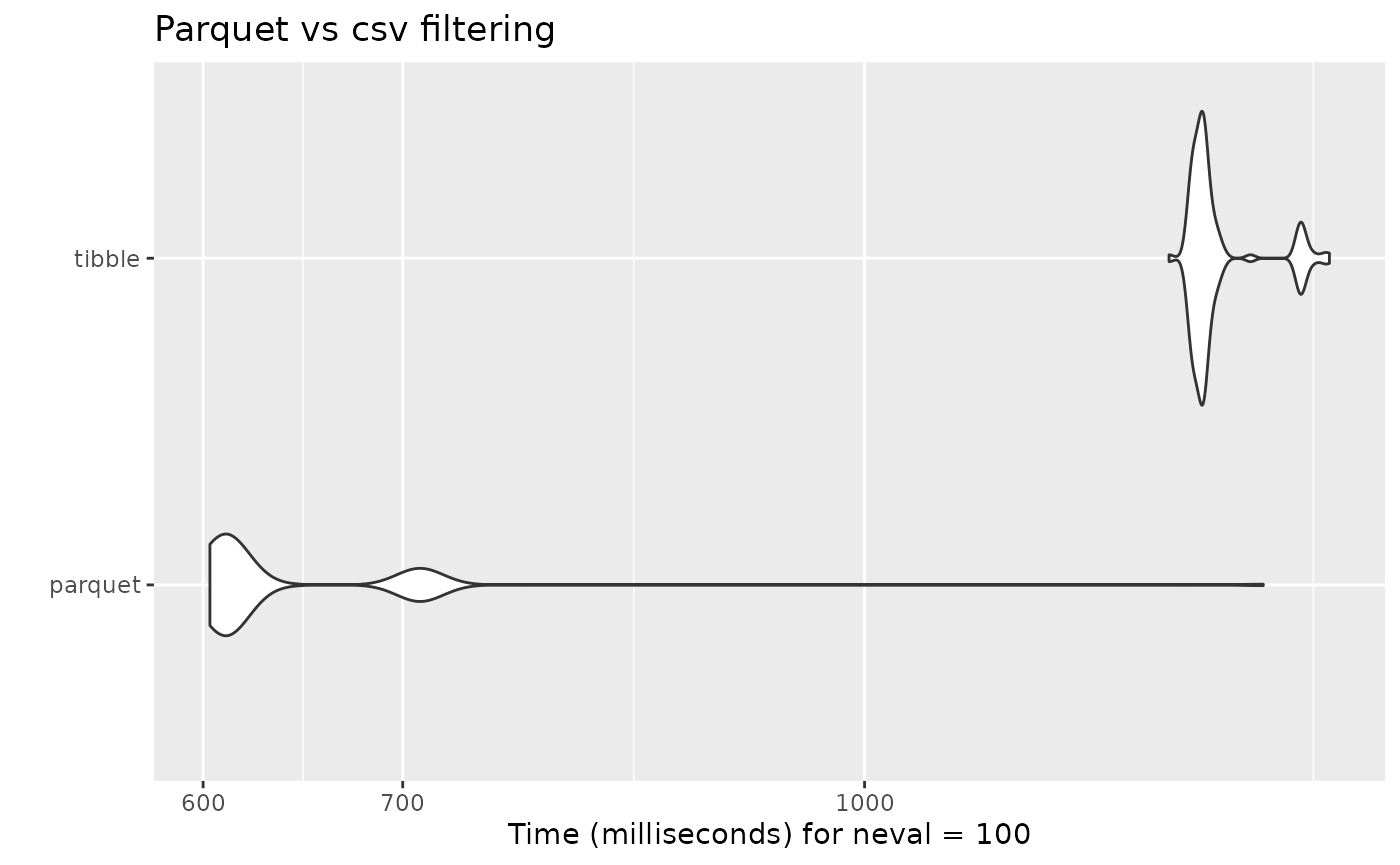
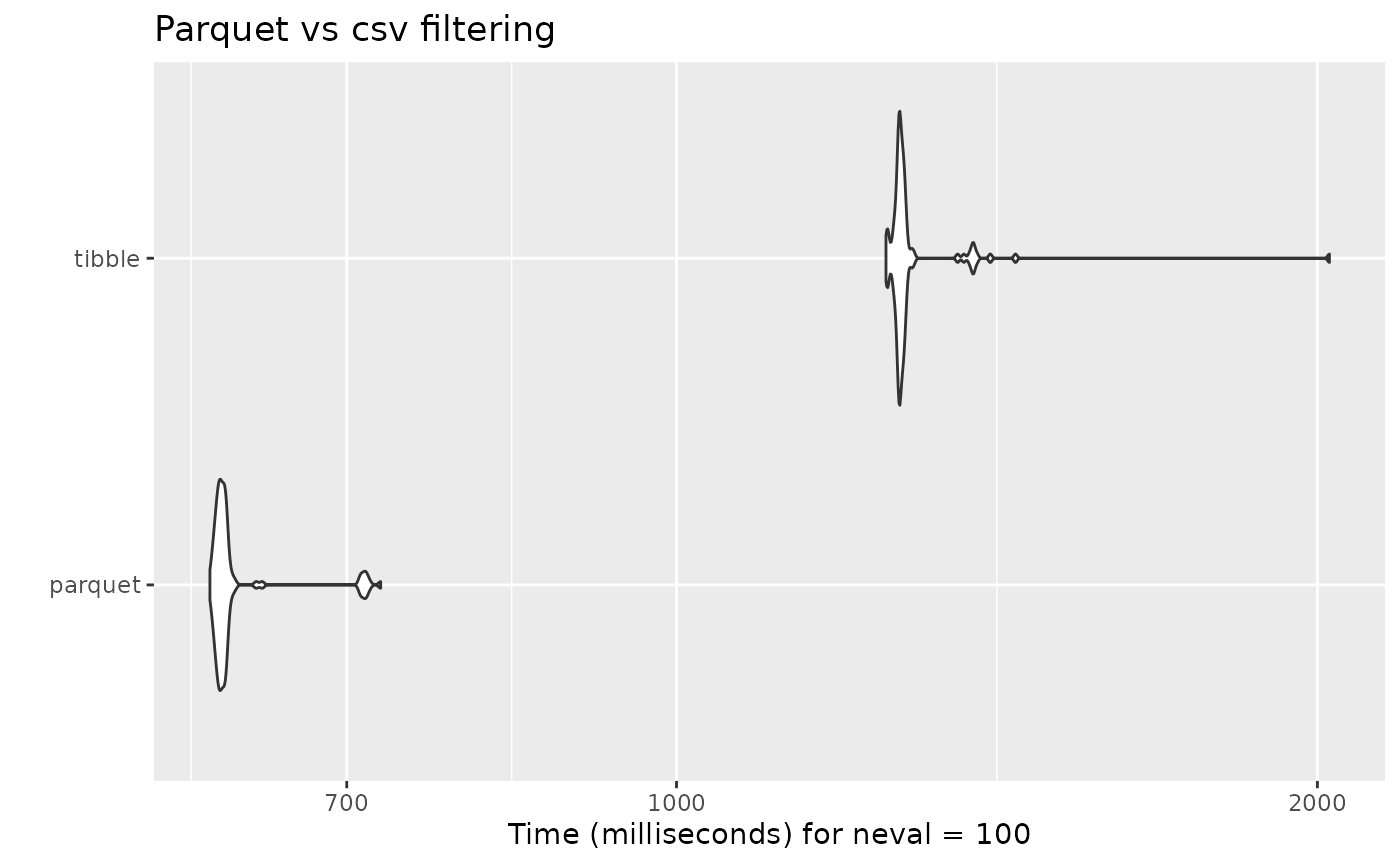
Deploying to gh-pages from @ amslala/regtools@ba6e38a22cb62392f877c759d69cd11c72b7db6a 🚀

diff --git a/articles/parquet-files.html b/articles/parquet-files.html
@@ -185,8 +185,8 @@ files:</p>
 <span>  code_col <span class="op">=</span> <span class="st">"code"</span>,</span>
 <span>  log_path <span class="op">=</span> <span class="va">l_path</span><span class="op">)</span></span>
 <span><span class="co">#&gt; <span style="color: #00BBBB;">ℹ</span> You have provided a parquet file or database. Due to the characteristics of these data objects, the console output and logging will provide minimal information.</span></span>
-<span><span class="co">#&gt; Reading /tmp/RtmpCDUrz2/file7021f4d709f/new_df.parquet file...</span></span>
-<span><span class="co">#&gt; <span style="color: #00BB00;">✔</span> Succesfully read file: /tmp/RtmpCDUrz2/file7021f4d709f/new_df.parquet</span></span>
+<span><span class="co">#&gt; Reading /tmp/Rtmp6iiV4j/file704a521f4616/new_df.parquet file...</span></span>
+<span><span class="co">#&gt; <span style="color: #00BB00;">✔</span> Succesfully read file: /tmp/Rtmp6iiV4j/file704a521f4616/new_df.parquet</span></span>
 <span><span class="co">#&gt; Checking column requirements:</span></span>
 <span><span class="co">#&gt; <span style="color: #00BB00;">✔</span> ID column</span></span>
 <span><span class="co">#&gt; <span style="color: #00BB00;">✔</span> Code column</span></span>
@@ -202,9 +202,9 @@ files:</p>
 <span><span class="co">#&gt; </span></span>
 <span><span class="co">#&gt; FileSystemDataset with 1 Parquet file</span></span>
 <span><span class="co">#&gt; 8,391,947 rows x 3 columns</span></span>
-<span><span class="co">#&gt; $ id       <span style="color: #949494; font-style: italic;">&lt;string&gt;</span> "P036000398", "P036000405", "P036000405", "P036000405", "P03…</span></span>
-<span><span class="co">#&gt; $ code     <span style="color: #949494; font-style: italic;">&lt;string&gt;</span> "F104", "F663", "F746", "F127", "F331", "F751", "F565", "F94…</span></span>
-<span><span class="co">#&gt; $ diag_year <span style="color: #949494; font-style: italic;">&lt;int32&gt;</span> 2012, 2015, 2015, 2015, 2014, 2012, 2013, 2014, 2012, 2014, …</span></span></code></pre></div>
+<span><span class="co">#&gt; $ id       <span style="color: #949494; font-style: italic;">&lt;string&gt;</span> "P023213966", "P023214004", "P023214004", "P023214004", "P02…</span></span>
+<span><span class="co">#&gt; $ code     <span style="color: #949494; font-style: italic;">&lt;string&gt;</span> "F515", "F807", "F1119", "F1290", "F039", "F212", "F303", "F…</span></span>
+<span><span class="co">#&gt; $ diag_year <span style="color: #949494; font-style: italic;">&lt;int32&gt;</span> 2013, 2014, 2012, 2015, 2012, 2014, 2015, 2012, 2013, 2014, …</span></span></code></pre></div>
 </div>
 <div class="section level3">
 <h3 id="filtering">Filtering<a class="anchor" aria-label="anchor" href="#filtering"></a>
@@ -248,8 +248,8 @@ observations:</p>
 <span><span class="co">#&gt; </span></span>
 <span><span class="co">#&gt; Rows: 37,658</span></span>
 <span><span class="co">#&gt; Columns: 3</span></span>
-<span><span class="co">#&gt; $ id        <span style="color: #949494; font-style: italic;">&lt;chr&gt;</span> "P036001710"<span style="color: #949494;">, </span>"P036004430"<span style="color: #949494;">, </span>"P036014556"<span style="color: #949494;">, </span>"P036015094"<span style="color: #949494;">, </span>"P03…</span></span>
-<span><span class="co">#&gt; $ code      <span style="color: #949494; font-style: italic;">&lt;chr&gt;</span> "F451"<span style="color: #949494;">, </span>"F45"<span style="color: #949494;">, </span>"F458"<span style="color: #949494;">, </span>"F844"<span style="color: #949494;">, </span>"F453"<span style="color: #949494;">, </span>"F4521"<span style="color: #949494;">, </span>"F4520"<span style="color: #949494;">, </span>"F8…</span></span>
+<span><span class="co">#&gt; $ id        <span style="color: #949494; font-style: italic;">&lt;chr&gt;</span> "P023216496"<span style="color: #949494;">, </span>"P023218501"<span style="color: #949494;">, </span>"P023223493"<span style="color: #949494;">, </span>"P023229346"<span style="color: #949494;">, </span>"P02…</span></span>
+<span><span class="co">#&gt; $ code      <span style="color: #949494; font-style: italic;">&lt;chr&gt;</span> "F4541"<span style="color: #949494;">, </span>"F841"<span style="color: #949494;">, </span>"F4522"<span style="color: #949494;">, </span>"F45"<span style="color: #949494;">, </span>"F846"<span style="color: #949494;">, </span>"F452"<span style="color: #949494;">, </span>"F45"<span style="color: #949494;">, </span>"F45…</span></span>
 <span><span class="co">#&gt; $ diag_year <span style="color: #949494; font-style: italic;">&lt;int&gt;</span> 2012<span style="color: #949494;">, </span>2012<span style="color: #949494;">, </span>2012<span style="color: #949494;">, </span>2012<span style="color: #949494;">, </span>2012<span style="color: #949494;">, </span>2012<span style="color: #949494;">, </span>2012<span style="color: #949494;">, </span>2012<span style="color: #949494;">, </span>2012<span style="color: #949494;">, </span>2012<span style="color: #949494;">, </span>…</span></span></code></pre></div>
 </div>
 <div class="section level3">
@@ -295,9 +295,9 @@ data frame object:</p>
 <span>  check <span class="op">=</span> <span class="cn">NULL</span></span>
 <span><span class="op">)</span></span></code></pre></div>
 <pre><code><span><span class="co">#&gt; Unit: milliseconds</span></span>
-<span><span class="co">#&gt;     expr       min        lq      mean    median        uq      max neval</span></span>
-<span><span class="co">#&gt;  parquet  603.1654  609.5259  642.1175  611.8103  668.3448 1360.581   100</span></span>
-<span><span class="co">#&gt;   tibble 1265.0658 1290.1674 1313.4351 1298.6506 1308.2800 1431.853   100</span></span></code></pre>
+<span><span class="co">#&gt;     expr       min        lq      mean    median       uq       max neval</span></span>
+<span><span class="co">#&gt;  parquet  603.6998  608.9438  620.9088  611.7827  614.352  726.1631   100</span></span>
+<span><span class="co">#&gt;   tibble 1254.2785 1270.8587 1291.3988 1273.9066 1279.266 2026.2271   100</span></span></code></pre>
 <p><img src="parquet-files_files/figure-html/bench-plot-1.png" width="700"></p>
 </div>
   </main><aside class="col-md-3"><nav id="toc" aria-label="Table of contents"><h2>On this page</h2>